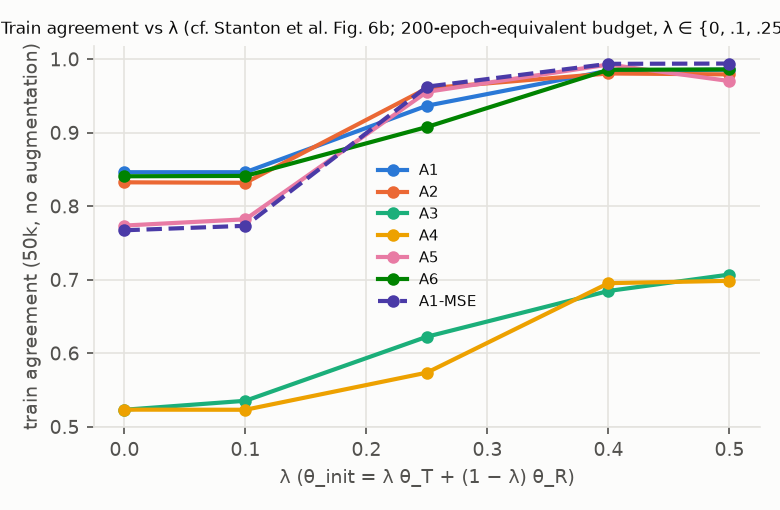
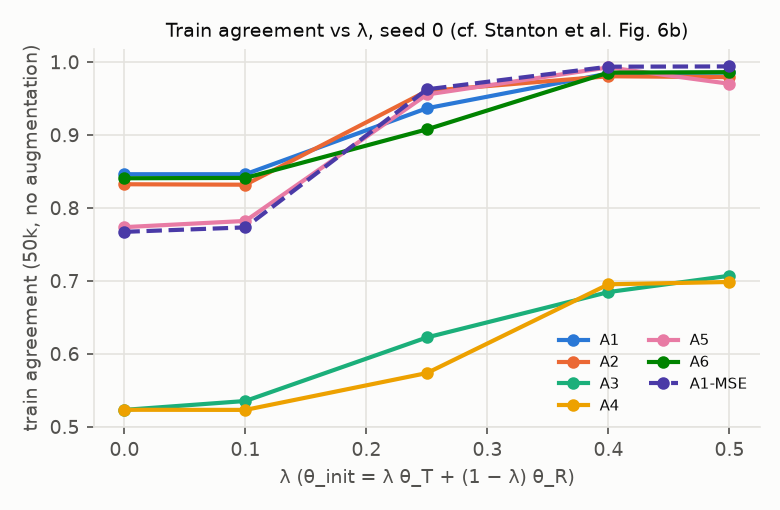
docs(stanton): Phase 3 report (tuning, lambda sweep, diagnostics, resumes, budget) and figures

diff --git a/experiments/stanton/REPORT.md b/experiments/stanton/REPORT.md
@@ -161,3 +161,234 @@ plumbing checks, not comparisons.
 **Budget.** Ledger 0.96 GPU-h of 40 (Phase 2: teacher v2 0.22, calibration and smoke tests,
 sanity reruns). Revised projection for Phases 3–4 including the hand-off: ≈16 GPU-h plus 25%
 contingency, total ≈21 GPU-h.
+
+## Phase 3: tuning and λ sweep (validation only), 2026-09-30 to 2026-10-01
+
+All numbers are on validation or on training images; the test split has not been opened. One
+seed (0) per configuration; identical reruns differ by about 0.5 pp of validation agreement
+(cuDNN nondeterminism), so single-seed gaps below about 1 pp are noise. "Train agreement" and
+"train KL" are on all 50,000 distillation images without augmentation (Amendment 5);
+`KL(p_T ‖ p_S)` at temperature 1 replaces training losses, which differ across arms.
+
+### Headline
+
+1. **Soft Dream (A4) and Gauss–Newton (A3) lose clearly.** At full budget they reach 51% (λ = 0)
+   to 67% (λ = 0.5) validation agreement, 20–30 pp behind every first-order arm, and their
+   weights drift far from the teacher (‖θ − θ_T‖ ≈ 160–560, versus 5–70 for first-order arms).
+   Per FE budget they take only a few hundred very expensive steps.
+2. **At λ = 0 no intervention helps at 1× compute**: all first-order arms reach 71–73% validation
+   agreement. The adaptive and fixed continuation paths (A2, A6) are within noise of A1.
+3. **At λ = 0.25, Stanton's failure case mostly disappears under our recipe**: A1-7 (Stanton's
+   optimizer plus 10% lr warmup) reaches 89.8% validation and 93.7% train agreement at 1×,
+   and **97.8% / 98.8% at 4×** (patience check). The barrier is a compute and optimizer-schedule
+   effect in our setup, not a hard basin barrier.
+4. At λ = 0.25 and 1×, the moving target (A2, 93.3%), Annealing-KD (A5, 93.4%) and plain logit
+   MSE without annealing (A1-MSE, 94.3%) all beat A1-7 (89.8%). **A1-MSE ≥ A5-6** says A5's gain
+   is a loss effect, not an annealing effect. **A weak anchor to the initialization beats all of
+   them** (μ = 0.01: 96.0%).
+5. Patience check at λ = 0 (Fred's pre-recorded criterion): **not met** (best train agreement
+   at 4×: A5-6 89.5%, below 95%). But A5-6 at 4× reaches 85.0% *validation* agreement at λ = 0,
+   12 pp above A1-7 and A2-3 at 4× (73.2%, 73.5%), the only large λ = 0 effect seen so far
+   (one seed).
+
+### Tuning (λ = 0.25, seed 0, `B_full/4`), selected by validation agreement
+
+| arm | selected | val agree | runner-up | notes |
+|---|---|---:|---|---|
+| A1 | **A1-7** (A1-1 + 10% warmup) | 72.88% | A1-4 (τ = 4) 68.54% | Stanton's recipe A1-1: 66.22%; Adam worst (61.7–64.4%) |
+| A2 | **A2-3** (fixed t, φ = 0.75) | 83.82% | A2-5 (adaptive, τ_KL = 0.15) 82.86% | all 6 configs ≥ 74.9% |
+| A3 | **A3-6** (\|B\| = \|C\| = 512, K = 10) | 33.52% | A3-1 32.08% | 100–230 GN steps per tuning budget |
+| A4 | **A4-6** (adaptive, τ_KL = 0.4) | 39.76% | A4-5 38.76% | |
+| A5 | **A5-6** (Annealing-KD) | 87.20% | A5-3 (T0 = 4, φ = 0.75) 85.86% | |
+| A6 | **A6-3** (spacing 5, τ_KL = 0.4) | 72.00% | A6-4 71.62% | |
+| A1-MSE | **A1MSE-1** (lr 0.02) | 72.34% | A1MSE-2 71.74% | diagnostic (Amendment 5) |
+
+Full per-config tables (with train-subset agreement, distances and schedule summaries) are
+produced by `python analyze.py tuning`. Note on A3-1: its weights drifted to ‖θ − θ_T‖ ≈ 450
+with agreement similar to the other A3 configs. A plausible mechanism: GroupNorm makes the
+preceding weights scale-invariant, so low-curvature directions let the norm grow without
+changing the function.
+
+### λ sweep (`B_full`, seed 0)
+
+Validation agreement:
+
+| arm | λ = 0 | 0.1 | 0.25 | 0.4 | 0.5 |
+|---|---:|---:|---:|---:|---:|
+| A1-7 | 71.20% | 70.70% | 89.84% | 96.90% | 97.18% |
+| A2-3 | 72.00% | 71.14% | 93.28% | 96.68% | 96.56% |
+| A3-6 | 51.24% | 51.74% | 59.48% | 65.02% | 66.92% |
+| A4-6 | 51.18% | 50.94% | 55.88% | 66.48% | 67.36% |
+| A5-6 | 72.88% | 73.26% | 93.36% | 98.66% | 95.48% |
+| A6-3 | 72.30% | 71.90% | 84.22% | 97.14% | 97.12% |
+| A1-MSE (diag.) | 71.46% | 72.72% | 94.28% | 98.86% | 99.02% |
+
+Validation KL(p_T ‖ p_S):
+
+| arm | λ = 0 | 0.1 | 0.25 | 0.4 | 0.5 |
+|---|---:|---:|---:|---:|---:|
+| A1-7 | 0.471 | 0.477 | 0.060 | 0.004 | 0.003 |
+| A2-3 | 0.462 | 0.460 | 0.021 | 0.005 | 0.006 |
+| A3-6 | 1.076 | 1.076 | 0.792 | 0.634 | 0.562 |
+| A4-6 | 1.094 | 1.081 | 0.923 | 0.569 | 0.557 |
+| A5-6 | 0.399 | 0.403 | 0.023 | 0.001 | 0.010 |
+| A6-3 | 0.457 | 0.444 | 0.136 | 0.003 | 0.003 |
+| A1-MSE | 0.448 | 0.424 | 0.017 | 0.000 | 0.000 |
+
+Train agreement / train KL (50k, no augmentation):
+
+| arm | λ = 0 | 0.1 | 0.25 | 0.4 | 0.5 |
+|---|---:|---:|---:|---:|---:|
+| A1-7 | 84.62% / 0.253 | 84.62% / 0.257 | 93.67% / 0.037 | 98.44% / 0.002 | 98.57% / 0.002 |
+| A2-3 | 83.25% / 0.272 | 83.19% / 0.269 | 96.04% / 0.014 | 98.05% / 0.004 | 97.93% / 0.004 |
+| A3-6 | 52.32% / 1.137 | 53.54% / 1.097 | 62.25% / 0.805 | 68.47% / 0.606 | 70.71% / 0.541 |
+| A4-6 | 52.33% / 1.124 | 52.31% / 1.138 | 57.37% / 0.955 | 69.53% / 0.561 | 69.85% / 0.552 |
+| A5-6 | 77.37% / 0.338 | 78.22% / 0.324 | 95.55% / 0.017 | 99.27% / 0.000 | 97.02% / 0.007 |
+| A6-3 | 84.07% / 0.260 | 84.12% / 0.255 | 90.78% / 0.083 | 98.55% / 0.002 | 98.60% / 0.002 |
+| A1-MSE | 76.73% / 0.362 | 77.34% / 0.346 | 96.26% / 0.012 | 99.37% / 0.000 | 99.40% / 0.000 |
+
+Final distance to the teacher's weights ‖θ − θ_T‖₂:
+
+| arm | λ = 0 | 0.1 | 0.25 | 0.4 | 0.5 |
+|---|---:|---:|---:|---:|---:|
+| A1-7 | 62.0 | 55.4 | 19.8 | 4.7 | 4.5 |
+| A2-3 | 56.8 | 48.7 | 11.8 | 9.6 | 11.0 |
+| A3-6 | 309.5 | 429.0 | 466.6 | 555.3 | 513.6 |
+| A4-6 | 268.0 | 156.8 | 368.1 | 487.0 | 479.8 |
+| A5-6 | 72.3 | 64.3 | 26.4 | 14.7 | 14.3 |
+| A6-3 | 60.1 | 53.1 | 27.7 | 4.6 | 4.4 |
+| A1-MSE | 68.9 | 61.5 | 24.4 | 8.9 | 7.2 |
+
+Figures (`experiments/stanton/figures/`):
+- `sweep_teacher_distance.png`: ‖θ − θ_T‖ against compute for every λ > 0 run of every arm
+  (y-axes differ per arm). First-order arms at λ ≥ 0.25 move *towards* the teacher; at
+  λ = 0.1 they move away (40 → 55–65). The GN arms move away at every λ.
+- `tuning_teacher_distance.png`: the same for all tuning runs (λ = 0.25).
+- `sweep_agreement.png`, `sweep_kl.png`: validation agreement and KL against compute, one panel
+  per λ. The continuation arm A2 starts slowly (its early targets are close to its own outputs)
+  and catches up by ≈60% of the budget.
+- `sweep_agreement_vs_lambda.png`: final validation agreement against λ.
+- `sweep_train_agreement_vs_lambda.png`: **train agreement against λ per arm, the view of Stanton
+  et al. Figure 6(b).**
+
+**Comparison with Stanton et al. Figure 6(b).** Stanton report near-perfect train agreement for
+λ ≥ 0.375 and a sharp drop at λ ≤ 0.25 (SGD, 300 epochs; train agreement 78.95% at λ = 0).
+In our setup the transition sits between **λ = 0.1 and 0.25**, not between 0.25 and 0.375: at
+λ = 0.25 every first-order arm reaches 90.8–96.3% train agreement at 1×. Differences that matter:
+a 200-epoch-equivalent budget (theirs: 300 epochs); our λ grid {0, 0.1, 0.25, 0.4, 0.5} (theirs
+includes 0.375); GroupNorm(1, C) instead of their LayerNorm ResNet-20; a weaker teacher (65.8%
+vs their ≈70.5%); τ = 1 KL instead of their τ = 4 default; and, for A1-7, a 10% lr warmup.
+Amendment 8 (A1-1, Stanton's exact recipe, at full budget for all λ; running now) will separate
+the warmup effect from the budget effect; at the tuning budget, warmup alone added 6.7 pp at
+λ = 0.25 (A1-1 66.2% → A1-7 72.9%). At λ = 0 our A1-7 train agreement (84.6%) is above Stanton's
+78.95%.
+
+### Diagnostics
+
+**Anchor (Amendment 4), λ = 0.25, seed 0.** A1-7 plus `(μ/2)‖θ − θ_init‖²`, decaying to 0 by 30%:
+
+| | val agree | val KL | train agree | ‖θ − θ_T‖ | ‖θ − θ_init‖ |
+|---|---:|---:|---:|---:|---:|
+| A1-7 (μ = 0) | 89.84% | 0.060 | 93.67% | 19.8 | 38.0 |
+| μ = 0.01 | **95.98%** | 0.007 | 97.83% | **8.0** | 33.7 |
+| μ = 0.1 | 91.60% | 0.038 | 94.75% | 15.4 | 36.5 |
+
+A weak early pull towards θ_init (which at λ = 0.25 is a quarter of the way to θ_T) is the
+strongest intervention at λ = 0.25 and ends closest to the teacher's weights. The λ = 0 anchor
+run (Amendment 10) tests whether this needs the teacher component; it is running.
+
+**A1-MSE (Amendment 5).** A1-7 with A5-6's logit MSE and no annealing matches or beats A5-6 at
+every λ ≥ 0.25 (94.3 vs 93.4, 98.9 vs 98.7, 99.0 vs 95.5%), and is equal at λ ≤ 0.1. At λ ≤ 0.1
+both MSE arms have *lower* train agreement than KL arms (77% vs 83–85%) with equal validation
+agreement. So in A5-6 the loss matters and the annealing does not, at 1×.
+
+**Hand-off (Amendment 4), seed 0, `B_full/4` with A1-7.** Validation agreement before → after:
+
+| source | λ | before | primary (warmup to 0.1·peak) | secondary (warmup to peak) |
+|---|---:|---:|---:|---:|
+| A1-7 (control) | 0.25 | 89.84% | 90.14% | 90.62% |
+| A2-3 | 0.25 | 93.28% | **94.00%** | 87.42% |
+| A6-3 | 0.25 | 84.22% | 84.86% | 85.30% |
+| A4-6 | 0.25 | 55.88% | 64.36% | 68.08% |
+| A1-7 (control) | 0 | 71.20% | 71.36% | 71.92% |
+| A2-3 | 0 | 72.00% | 71.64% | 71.52% |
+| A6-3 | 0 | 72.30% | 72.30% | 72.12% |
+| A4-6 | 0 | 51.18% | 60.74% | 66.26% |
+
+At λ = 0.25 the A2 endpoint keeps its lead over the A1 control under the gentle hand-off (94.0
+vs 90.1%) but loses it under the full-lr one (87.4%): it sits in a better region that a large lr
+kick leaves. At λ = 0 nothing changes. A4 endpoints improve under first-order training but stay
+far behind.
+
+**Patience check (Amendments 6 and 7), `4·B_full`, seed 0** (`figures/patience_4x.png`; 1× =
+the λ-sweep run, 4× = end of the 4× run):
+
+| λ | run | val agree 1× → 4× | train agree 1× → 4× | train KL 1× → 4× |
+|---:|---|---|---|---|
+| 0.25 | A1-7 | 89.84 → **97.76%** | 93.67 → **98.79%** | 0.037 → 0.002 |
+| 0.25 | A5-6 | 93.36 → 91.42% | 95.55 → 94.29% | 0.017 → 0.028 |
+| 0 | A1-7 | 71.20 → 73.22% | 84.62 → 87.28% | 0.253 → 0.200 |
+| 0 | A2-3 | 72.00 → 73.46% | 83.25 → 86.90% | 0.272 → 0.197 |
+| 0 | A5-6 | 72.88 → **85.02%** | 77.37 → 89.54% | 0.338 → 0.091 |
+
+- λ = 0.25 (Amendment 6): **A5-6 at 1× does not beat A1-7 at 4×** (93.4 vs 97.8%), and the two do
+  not converge: A1-7 keeps improving to near-perfect agreement, A5-6 plateaus slightly *below*
+  its 1× value. Caveat: a 4× run stretches its schedules, so "A5-6 at 4×" is a different
+  schedule, not merely more steps.
+- λ = 0 (Amendment 7, Fred's criterion recorded in advance): **criterion not met.** No arm reaches
+  95% train agreement (best: A5-6 89.5%), and A1-7 is 2.3 pp below A5-6, not 5. Unexpected and
+  noted for Fred: A5-6 at 4× reaches **85.0% validation agreement** at λ = 0, 12 pp above A1-7
+  and A2-3 at 4× and above its own train-agreement gain; its validation curve separates from the
+  others after ≈2× compute. One seed; not part of any decision.
+
+### What this implies for Phase 4 (no test data used)
+
+On validation, the GO outcome cannot occur (A4 trails A1 by 15–34 pp), and by Amendment 9 the
+outcomes that need A3 or A4 will be recorded as not met if the test numbers confirm the gap. The
+decisive comparisons are A1 versus A2, A5 and A6 at λ = 0 (all within about 1.7 pp at seed 0)
+and at λ = 0.25 (A2 and A5 +3.5 pp over A1). The final configurations are the preregistered
+selections: A1-7, A2-3, A5-6, A6-3 (decision rule), A1MSE-1 and A1-anchor-mu0.01 (diagnostics),
+seed-0 only for A3-6 and A4-6.
+
+### Runs resumed after a crash or kill
+
+Causes: GPU out-of-memory crashes when several queues shared the GPU (my scheduling error; fixed
+by a memory-aware queue, a check on every launch, and per-run locks), and two kills of queue
+sessions by me. No run was discarded.
+
+| run | resumed from checkpoint at step | fresh restarts | finished |
+|---|---|---:|---|
+| A1-7 λ = 0.1, 0.25, 0.4, 0.5 (full) | 7821 | 0 | yes |
+| A1-7 λ = 0 (full) | 7821, 7821 | 0 | yes |
+| A2-3 λ = 0 (full) | 6390 | 0 | yes |
+| A2-3 λ = 0.25, 0.4 (full) | 1278 | 0 | yes |
+| A2-3 λ = 0.1, 0.5 (full) | – | 1 | yes |
+| A3-6 λ = 0.1 (full) | 92 | 0 | yes |
+| A3-6 λ = 0.25, 0.5 (full) | – | 1 | yes |
+| A4-3 (tune) | 5, 5, 5 | 0 | yes |
+| A4-4 (tune) | – | 1 | yes |
+| A4-5 (tune) | 92 | 0 | yes |
+| A4-6 λ = 0.1 (full) | 91 | 0 | yes |
+| A6-3 λ = 0 (full) | – | 1 | yes |
+
+Restored exactly on every resume: model or parameter vector, optimizer state (momentum / Adam
+moments) or, for GN arms, the previous CG step and LM damping; the data-sampler CUDA generator
+state with epoch order and cursor; the FE counter, and hence the lr schedule, which is a function
+of the FE fraction; the t / temperature schedule state. Not restored: work after the last
+checkpoint is recomputed, and because cuDNN kernels are not bitwise deterministic, the recomputed
+steps are not bit-identical to the lost ones. A "fresh restart" (crash before the first
+checkpoint) reruns from step 0 with the same seeds.
+
+### Budget
+
+GPU busy-clock (the figure checked against the cap): **19.0 GPU-h of 40** at the end of Phase 3
+runs (it includes Phase 4 runs that have been running since 07:12). The per-run ledger in
+`budget.json` sums to more (≈65) because it divides each run's wall-clock by its own queue's
+concurrency while several queues shared the GPU; it is an attribution, not the budget figure
+(noted in the file). Projection to the end of Phase 4: ≈29 GPU-h.
+
+### Status and next step
+
+Phase 4 training (Amendments 8–10) is running: A1-1 at five λ, the λ = 0 seed-0 anchor run, and
+seeds 1 and 2 at λ ∈ {0, 0.25} for A1-7, A2-3, A5-6, A6-3, A1MSE-1 and A1-anchor-mu0.01. Expected
+to finish around 18:00–20:00. **The test split stays closed until Fred approves this report.**
